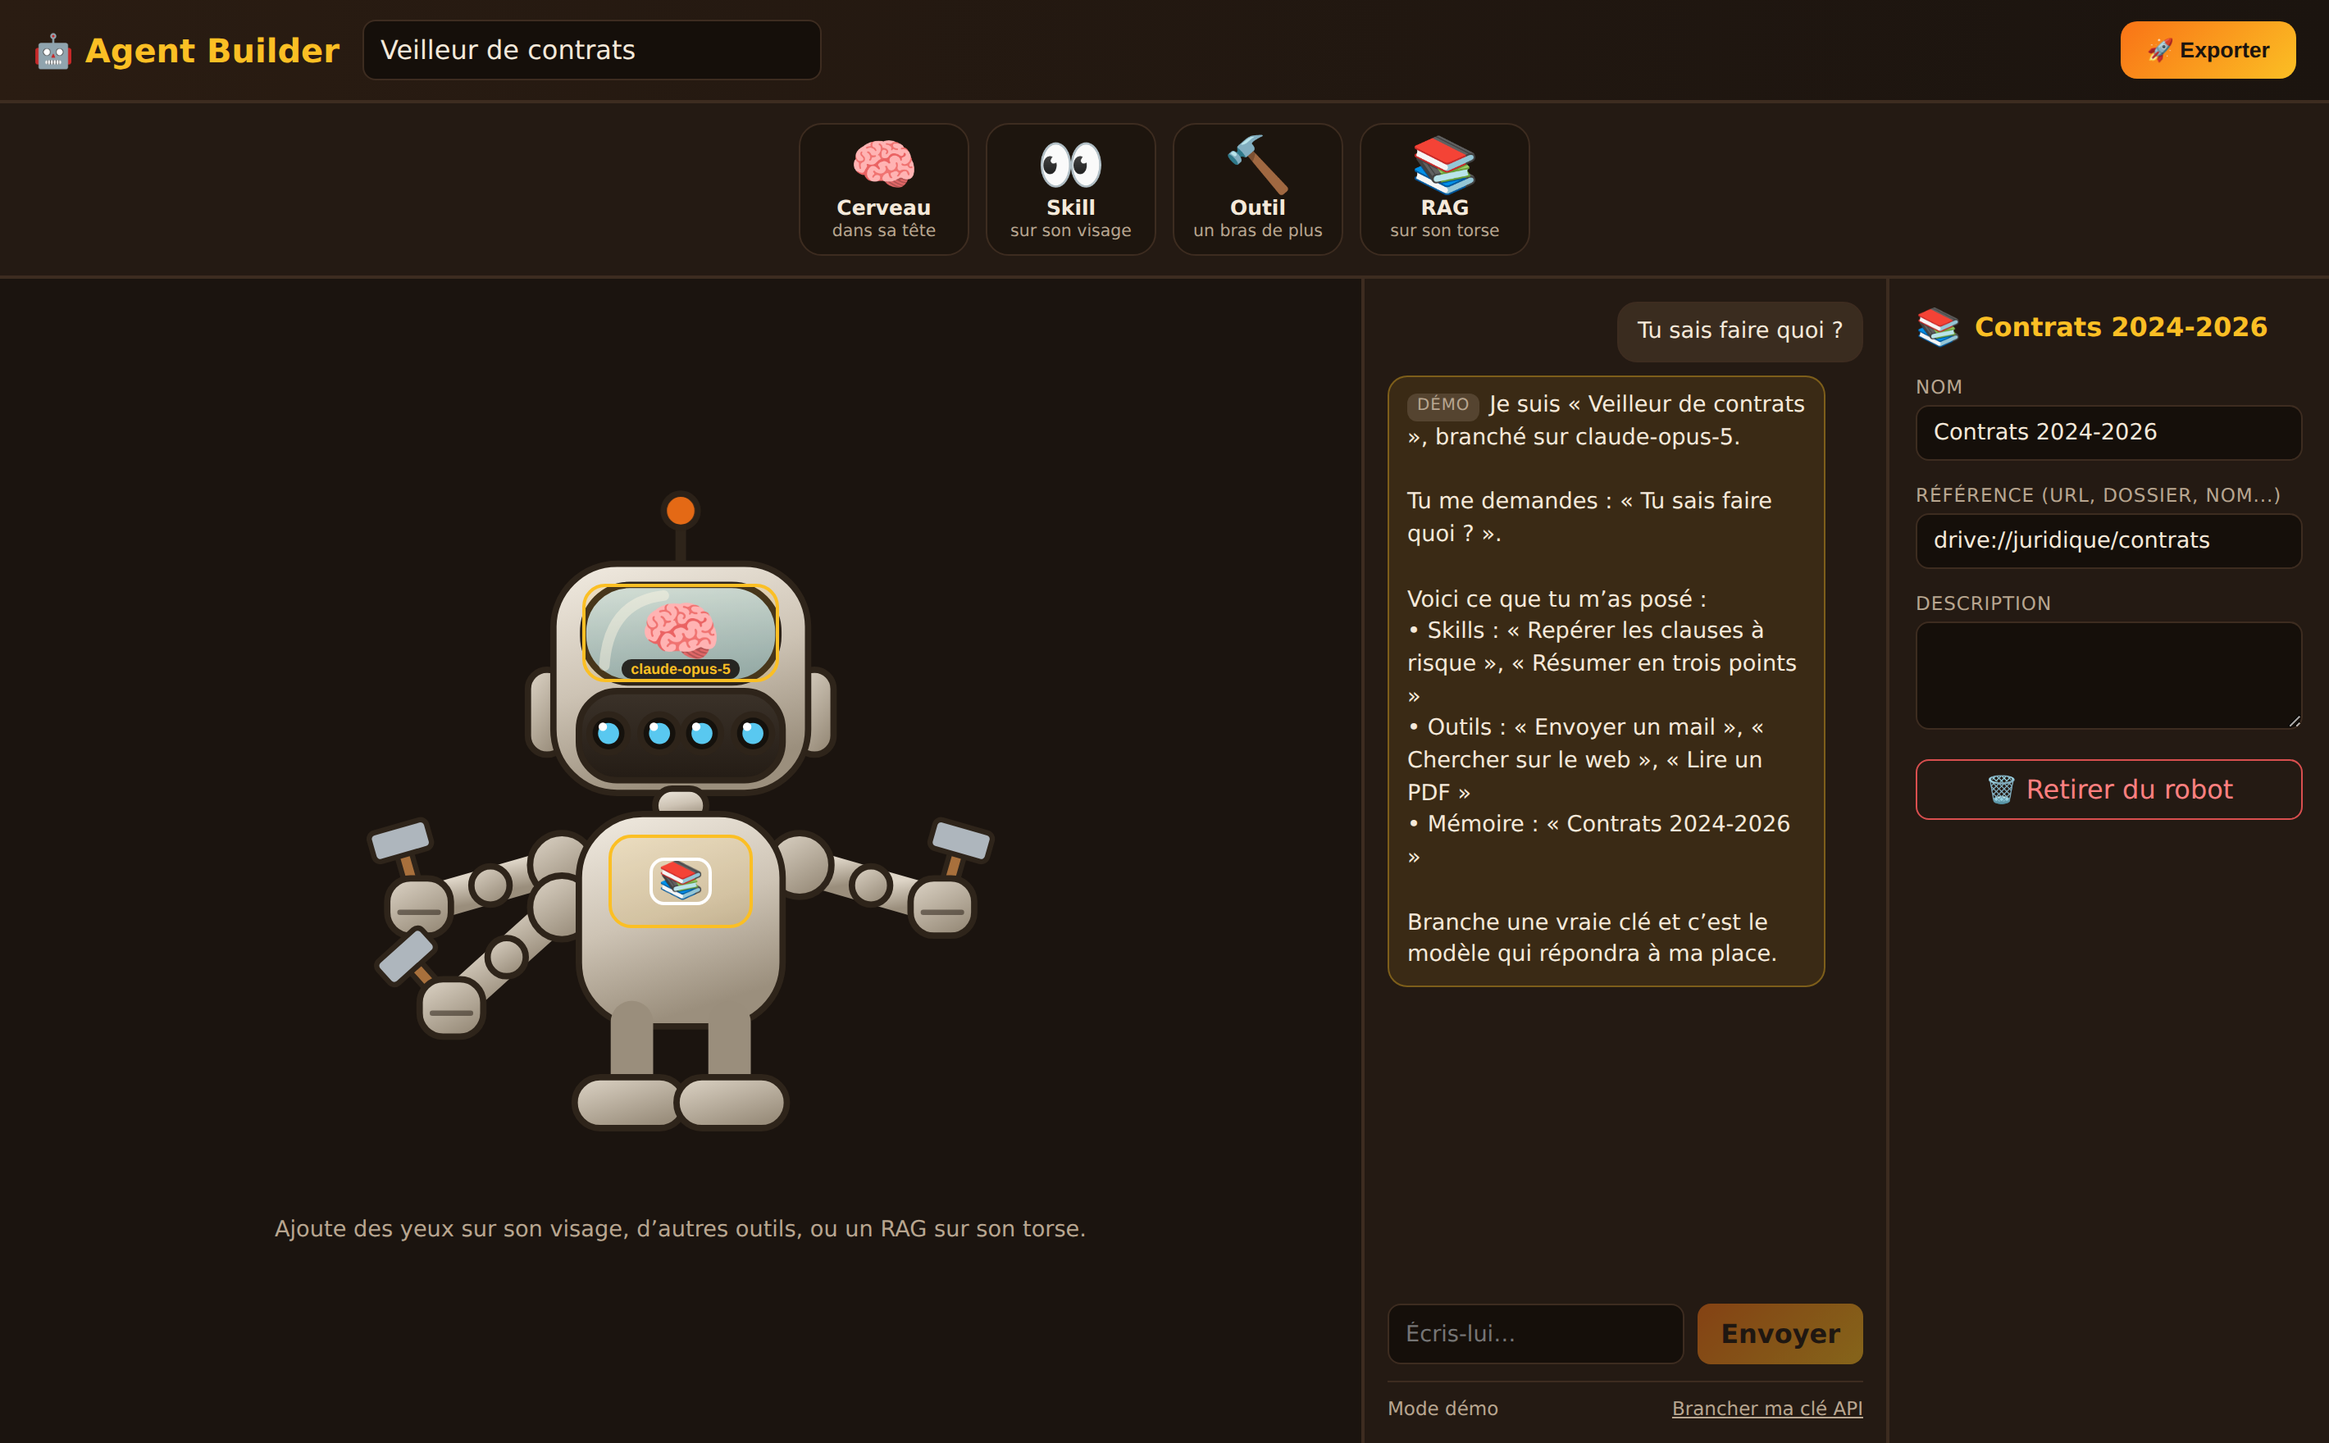
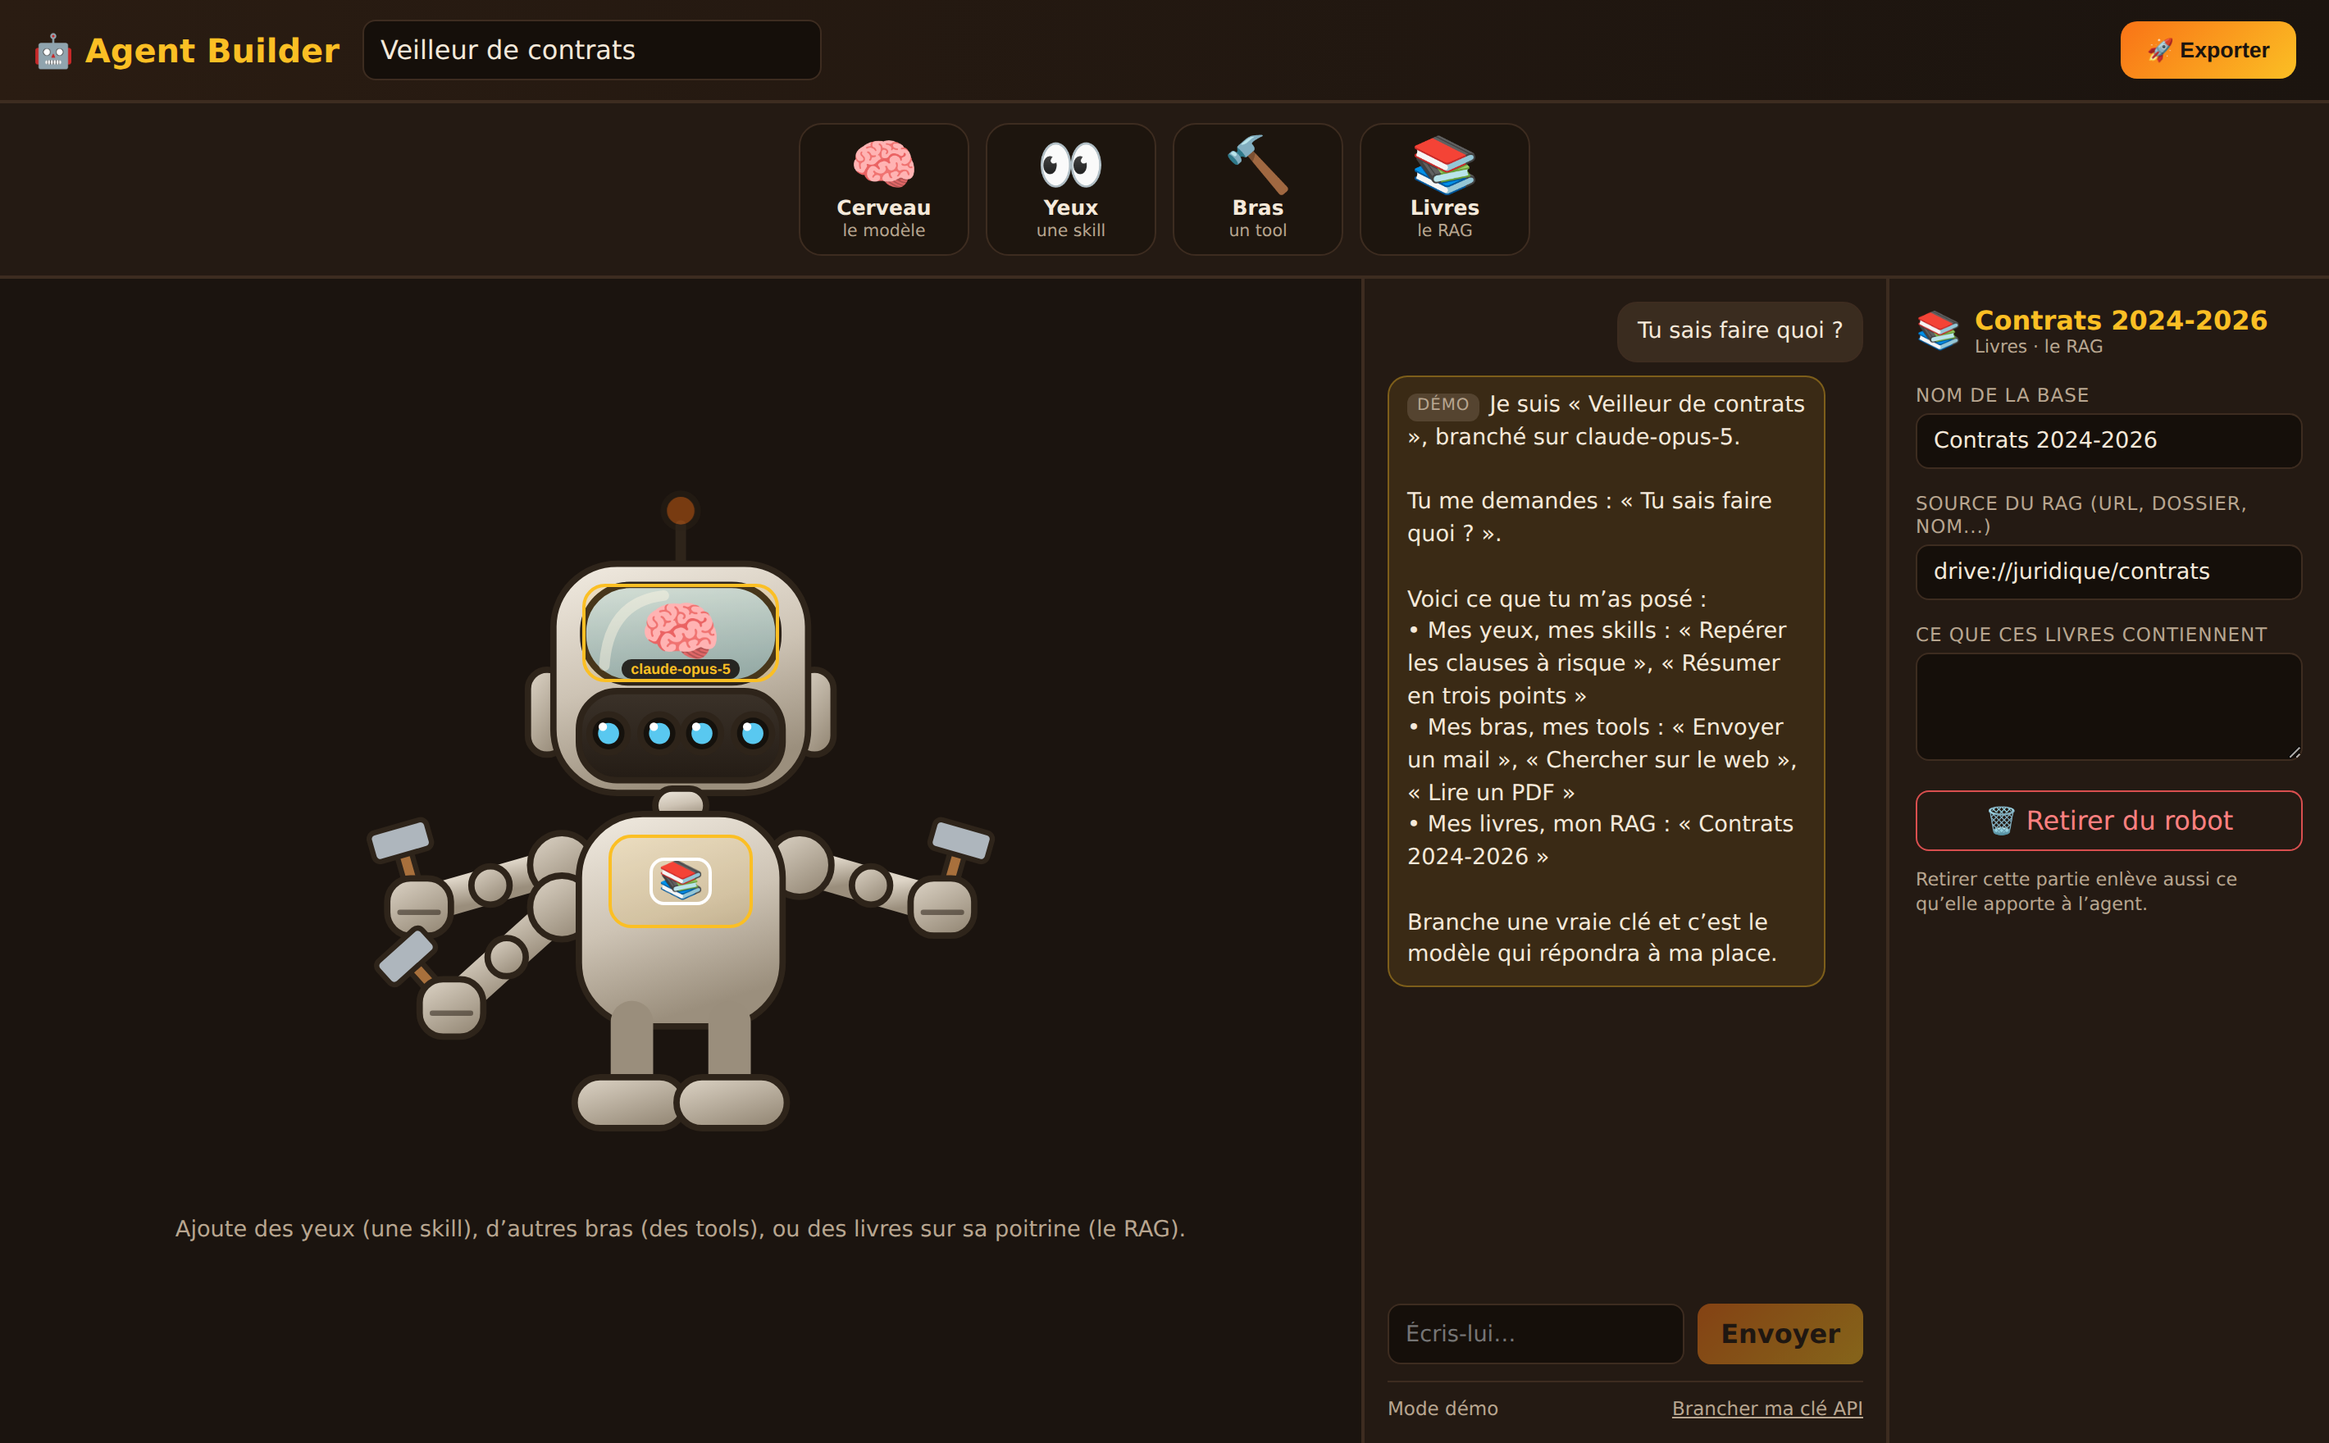
Nommer ensemble la partie du corps et la pièce de l'agent
L'interface parlait tantôt métaphore, tantôt technique : la palette disait
« Skill » sous une paire d'yeux, l'emplacement vide du visage disait
« yeux » sans dire à quoi ça sert, et rien ne reliait les deux. Chaque
objet porte donc maintenant ses deux moitiés — le corps et le rôle — et
les deux voyagent ensemble : palette, emplacements vides, phrases d'aide,
titres de réglages, libellés de champs et réponses de démonstration.

Cela a mis au jour une aide fausse : elle demandait de poser un outil sur
le torse, alors que les bras poussent aux épaules et que le torse porte le
RAG depuis qu'il a été remonté sur la poitrine.

Claude-Session: https://claude.ai/code/session_01PrkeUZHmSZa6Uq1qjtD5YY

diff --git a/src/catalog.js b/src/catalog.js
@@ -1,41 +1,52 @@
 // Les quatre objets qu'on attrape en haut pour les poser sur le robot.
+//
+// Chaque objet porte les deux moitiés de la métaphore : la partie du corps
+// (`part`) et ce qu'elle représente dans l'agent (`role`). Les deux voyagent
+// ensemble partout dans l'interface, pour qu'on n'ait jamais à deviner que
+// « les yeux » veut dire « une skill ».
 
 export const OBJECTS = [
   {
     id: 'brain',
     slot: 'brain',
     icon: '🧠',
-    label: 'Cerveau',
-    hint: 'dans sa tête',
+    part: 'Cerveau',
+    role: 'le modèle',
     defaults: { label: 'Cerveau', model: 'claude-opus-5', effort: 'high', systemPrompt: '' },
   },
   {
     id: 'eyes',
     slot: 'skill',
     icon: '👀',
-    label: 'Skill',
-    hint: 'sur son visage',
+    part: 'Yeux',
+    role: 'une skill',
     defaults: { label: 'Nouvelle skill', description: '' },
   },
   {
     id: 'tool',
     slot: 'tool',
     icon: '🔨',
-    label: 'Outil',
-    hint: 'un bras de plus',
-    defaults: { label: 'Nouvel outil', description: '', parameters: '' },
+    part: 'Bras',
+    role: 'un tool',
+    defaults: { label: 'Nouveau tool', description: '', parameters: '' },
   },
   {
     id: 'rag',
     slot: 'rag',
     icon: '📚',
-    label: 'RAG',
-    hint: 'sur son torse',
+    part: 'Livres',
+    role: 'le RAG',
     defaults: { label: 'Base de connaissances', source: '', description: '' },
   },
 ];
 
 export const OBJECTS_BY_ID = Object.fromEntries(OBJECTS.map((o) => [o.id, o]));
+
+/** « Yeux · une skill » — la forme qu'on affiche partout où l'objet est nommé. */
+export function pairing(objectId) {
+  const o = OBJECTS_BY_ID[objectId];
+  return `${o.part} · ${o.role}`;
+}
 
 // Seuls des modèles Claude : c'est la seule API que l'app sait appeler, et
 // proposer les autres laisserait croire qu'ils sont branchés.
@@ -53,17 +64,17 @@ export const FIELDS = {
   ],
   skill: [
     { key: 'label', label: 'Nom de la skill', type: 'text' },
-    { key: 'description', label: 'Ce que l’agent sait faire', type: 'textarea' },
+    { key: 'description', label: 'Ce que ces yeux savent faire', type: 'textarea' },
   ],
   tool: [
-    { key: 'label', label: 'Nom de l’outil', type: 'text' },
-    { key: 'description', label: 'Ce que fait l’outil', type: 'textarea' },
-    { key: 'parameters', label: 'Paramètres (un par ligne)', type: 'textarea' },
+    { key: 'label', label: 'Nom du tool', type: 'text' },
+    { key: 'description', label: 'Ce que ce bras sait faire', type: 'textarea' },
+    { key: 'parameters', label: 'Paramètres du tool (un par ligne)', type: 'textarea' },
   ],
   rag: [
-    { key: 'label', label: 'Nom', type: 'text' },
-    { key: 'source', label: 'Référence (URL, dossier, nom...)', type: 'text' },
-    { key: 'description', label: 'Description', type: 'textarea' },
+    { key: 'label', label: 'Nom de la base', type: 'text' },
+    { key: 'source', label: 'Source du RAG (URL, dossier, nom...)', type: 'text' },
+    { key: 'description', label: 'Ce que ces livres contiennent', type: 'textarea' },
   ],
 };
 

diff --git a/src/App.jsx b/src/App.jsx
@@ -1,6 +1,6 @@
 import { useCallback, useEffect, useRef, useState } from 'react';
 
-import { FIELDS, OBJECTS_BY_ID, newItem } from './catalog';
+import { FIELDS, OBJECTS_BY_ID, newItem, pairing } from './catalog';
 import { loadKey, saveKey } from './llm/client';
 import Palette from './components/Palette';
 import ConfigPanel from './components/ConfigPanel';
@@ -107,10 +107,10 @@ export default function App() {
   }, []);
 
   const hint = !brain
-    ? 'Attrape le cerveau et lâche-le dans sa tête.'
+    ? 'Commence par le cerveau : c’est le modèle qui fera tourner l’agent.'
     : tools.length === 0
-      ? 'Pose un outil sur son torse : un bras pousse pour le tenir.'
-      : 'Ajoute des yeux sur son visage, d’autres outils, ou un RAG sur son torse.';
+      ? 'Pose un bras sur son épaule : c’est un tool que l’agent pourra appeler.'
+      : 'Ajoute des yeux (une skill), d’autres bras (des tools), ou des livres sur sa poitrine (le RAG).';
 
   return (
     <div className="app">
@@ -175,6 +175,7 @@ export default function App() {
           item={selected}
           fields={selected ? FIELDS[OBJECTS_BY_ID[selected.objectId].slot] : null}
           icon={selected ? OBJECTS_BY_ID[selected.objectId].icon : null}
+          kind={selected ? pairing(selected.objectId) : null}
           onChange={updateSelected}
           onRemove={removeSelected}
         />

diff --git a/src/components/ConfigPanel.jsx b/src/components/ConfigPanel.jsx
@@ -1,8 +1,8 @@
-export default function ConfigPanel({ item, fields, icon, onChange, onRemove }) {
+export default function ConfigPanel({ item, fields, icon, kind, onChange, onRemove }) {
   if (!item) {
     return (
       <aside className="config config--empty">
-        <p>Clique un objet posé sur le robot pour le régler.</p>
+        <p>Clique une partie du robot pour régler ce qu’elle apporte à l’agent.</p>
       </aside>
     );
   }
@@ -11,7 +11,10 @@ export default function ConfigPanel({ item, fields, icon, onChange, onRemove }) 
     <aside className="config">
       <div className="config__header">
         <span className="config__icon">{icon}</span>
-        <span>{item.label}</span>
+        <span className="config__title">
+          {item.label}
+          <span className="config__kind">{kind}</span>
+        </span>
       </div>
 
       {fields.map((field) => (
@@ -62,6 +65,10 @@ export default function ConfigPanel({ item, fields, icon, onChange, onRemove }) 
       <button type="button" className="config__remove" onClick={onRemove}>
         🗑 Retirer du robot
       </button>
+
+      <p className="config__note">
+        Retirer cette partie enlève aussi ce qu’elle apporte à l’agent.
+      </p>
     </aside>
   );
 }

diff --git a/src/components/Robot.jsx b/src/components/Robot.jsx
@@ -224,7 +224,7 @@ export default function Robot({
             <span className="brain__model">{brain.model}</span>
           </button>
         ) : (
-          <span className="zone__empty">?</span>
+          <span className="zone__empty zone__empty--faint">cerveau · modèle</span>
         )}
       </Zone>
 
@@ -234,7 +234,9 @@ export default function Robot({
         dragSlot={dragSlot}
         filled={skills.length > 0}
       >
-        {skills.length === 0 && <span className="zone__empty zone__empty--faint">yeux</span>}
+        {skills.length === 0 && (
+          <span className="zone__empty zone__empty--faint">yeux · skill</span>
+        )}
       </Zone>
 
       {/* Une épaule de chaque côté reçoit les outils : c'est là que pousse le
@@ -257,7 +259,9 @@ export default function Robot({
         dragSlot={dragSlot}
         filled={rags.length > 0}
       >
-        {rags.length === 0 && <span className="zone__empty zone__empty--faint">RAG</span>}
+        {rags.length === 0 && (
+          <span className="zone__empty zone__empty--faint">livres · RAG</span>
+        )}
         {rags.map((rag) => (
           <button
             key={rag.uid}

diff --git a/src/llm/demo.js b/src/llm/demo.js
@@ -18,16 +18,16 @@ function composeDemoText({ name, brain, skills, tools, rags }, question) {
   if (question) lines.push(`Tu me demandes : « ${question} ».`);
 
   const posé = [
-    inventory('Skills', skills),
-    inventory('Outils', tools),
-    inventory('Mémoire', rags),
+    inventory('Mes yeux, mes skills', skills),
+    inventory('Mes bras, mes tools', tools),
+    inventory('Mes livres, mon RAG', rags),
   ].filter(Boolean);
 
   if (posé.length > 0) {
     lines.push(`Voici ce que tu m’as posé :\n${posé.map((l) => `• ${l}`).join('\n')}`);
   } else {
     lines.push(
-      'Pour l’instant je n’ai qu’un cerveau : pose-moi des yeux, un marteau ou des livres et ma réponse en tiendra compte.',
+      'Pour l’instant je n’ai qu’un cerveau : pose-moi des yeux (une skill), un bras (un tool) ou des livres (le RAG), et ma réponse en tiendra compte.',
     );
   }
 

diff --git a/src/components/Palette.jsx b/src/components/Palette.jsx
@@ -8,12 +8,12 @@ export default function Palette({ onGrab }) {
           key={object.id}
           type="button"
           className="object"
-          aria-label={object.label}
+          aria-label={`${object.part} — ${object.role}`}
           onPointerDown={(e) => onGrab(object, e)}
         >
           <span className="object__icon">{object.icon}</span>
-          <span className="object__label">{object.label}</span>
-          <span className="object__hint">{object.hint}</span>
+          <span className="object__label">{object.part}</span>
+          <span className="object__hint">{object.role}</span>
         </button>
       ))}
     </div>

diff --git a/src/index.css b/src/index.css
@@ -718,6 +718,27 @@ body {
   font-size: 1.4rem;
 }
 
+.config__title {
+  display: flex;
+  flex-direction: column;
+  min-width: 0;
+}
+
+/* Rappelle à quoi cette partie du corps correspond dans l'agent. */
+/* Pas de text-transform : il écraserait la casse de « RAG ». */
+.config__kind {
+  color: var(--text-dim);
+  font-weight: 400;
+  font-size: 0.68rem;
+}
+
+.config__note {
+  margin: 10px 0 0;
+  color: var(--text-dim);
+  font-size: 0.7rem;
+  line-height: 1.4;
+}
+
 .field {
   display: block;
   margin-bottom: 14px;

diff --git a/README.md b/README.md
@@ -2,21 +2,22 @@
 
 **Construire un agent IA en habillant un robot.** Au lieu de remplir un
 formulaire, on attrape un cerveau et on le pose dans sa tête, des yeux sur
-son visage, des outils qui lui font pousser des bras, des livres sur son
-torse. La silhouette du robot dit d'un coup d'œil ce que l'agent sait
-faire — puis on discute avec lui, ou on exporte sa configuration en JSON.
+son visage, des bras qui empoignent ses tools, des livres sur son torse. La
+silhouette du robot dit d'un coup d'œil ce que l'agent sait faire — puis on
+discute avec lui, ou on exporte sa configuration en JSON.
 
 ![L'interface complète : le robot équipé, la conversation, les réglages](docs/interface.png)
 
-Chaque objet posé a une conséquence visible, et une contrepartie réelle
-dans l'appel au modèle :
+Chaque partie du corps est la face visible d'une pièce de l'agent. Les deux
+noms voyagent ensemble dans toute l'interface, pour qu'on n'ait jamais à
+deviner que « des yeux » veut dire « une skill » :
 
-| Objet | Où il va | Ce que ça change |
+| Partie du robot | Pièce de l'agent | Ce qui se passe quand on la pose |
 |---|---|---|
-| 🧠 **Cerveau** | sa tête | le modèle réellement appelé, écrit sur le cerveau |
-| 👀 **Skill** | son visage | une paire d'yeux de plus, une capacité déclarée au modèle |
-| 🔨 **Outil** | ses épaules | **un bras pousse** et un poing se referme sur l'outil |
-| 📚 **RAG** | son torse | les connaissances s'empilent sur sa poitrine |
+| 🧠 **Cerveau**, dans sa tête | **le modèle** | c'est lui qu'on appelle ; son nom s'écrit sur le cerveau |
+| 👀 **Yeux**, sur son visage | **une skill** | une paire d'yeux de plus, une capacité déclarée au modèle |
+| 🔨 **Bras**, à ses épaules | **un tool** | **un bras pousse** et un poing se referme sur l'outil |
+| 📚 **Livres**, sur sa poitrine | **le RAG** | les connaissances s'empilent sur son torse |
 
 <p align="center">
   <img src="docs/robot.png" alt="Robot équipé : cerveau, quatre yeux, trois bras outillés" width="360">
@@ -37,8 +38,8 @@ npm run dev
 
 **Sans rien configurer**, le robot répond déjà : c'est le *mode démo*, un
 bouchon local qui compose sa réponse à partir de ce qu'on lui a posé (son
-modèle, ses skills, ses outils). Aucun appel réseau, aucune clé — de quoi
-faire le tour de l'outil et le montrer à quelqu'un. Ces réponses portent la
+modèle, ses skills, ses tools). Aucun appel réseau, aucune clé — de quoi
+faire le tour de l'app et la montrer à quelqu'un. Ces réponses portent la
 mention « démo ».
 
 **Avec une clé**, c'est le vrai modèle qui répond. « Brancher ma clé API »
@@ -52,7 +53,7 @@ au pied de la conversation ; la clé est gardée dans le navigateur
 > route qui relaie les appels.
 
 Ce qui tourne réellement aujourd'hui : le cerveau (le modèle appelé) et les
-skills (capacités déclarées dans le prompt système). Les outils et le RAG
+skills (capacités déclarées dans le prompt système). Les tools et le RAG
 sont encore décoratifs.
 
 ## Le geste
@@ -66,13 +67,13 @@ Le déplacement suit les événements *pointer* plutôt que le glisser-déposer
 HTML5, qui n'émet rien au tactile : le geste est donc le même à la souris et
 au doigt, et un simple toucher équipe l'objet sans avoir à viser.
 
-Les bras poussent par paires étagées : le premier outil donne un bras à
+Les bras poussent par paires étagées : le premier tool donne un bras à
 gauche, le deuxième un bras à droite, et ainsi de suite en descendant le
 long du flanc. Un clic sur un objet posé ouvre ses réglages.
 
 ## Prochaines étapes
 
-- **Outils réels** : le JSON des outils existe déjà ; reste à l'envoyer au
+- **Tools réels** : le JSON des tools existe déjà ; reste à l'envoyer au
   modèle en function calling et à boucler sur ses appels.
 - **RAG fonctionnel** : contenu injecté en contexte, puis découpage et
   recherche vectorielle.
